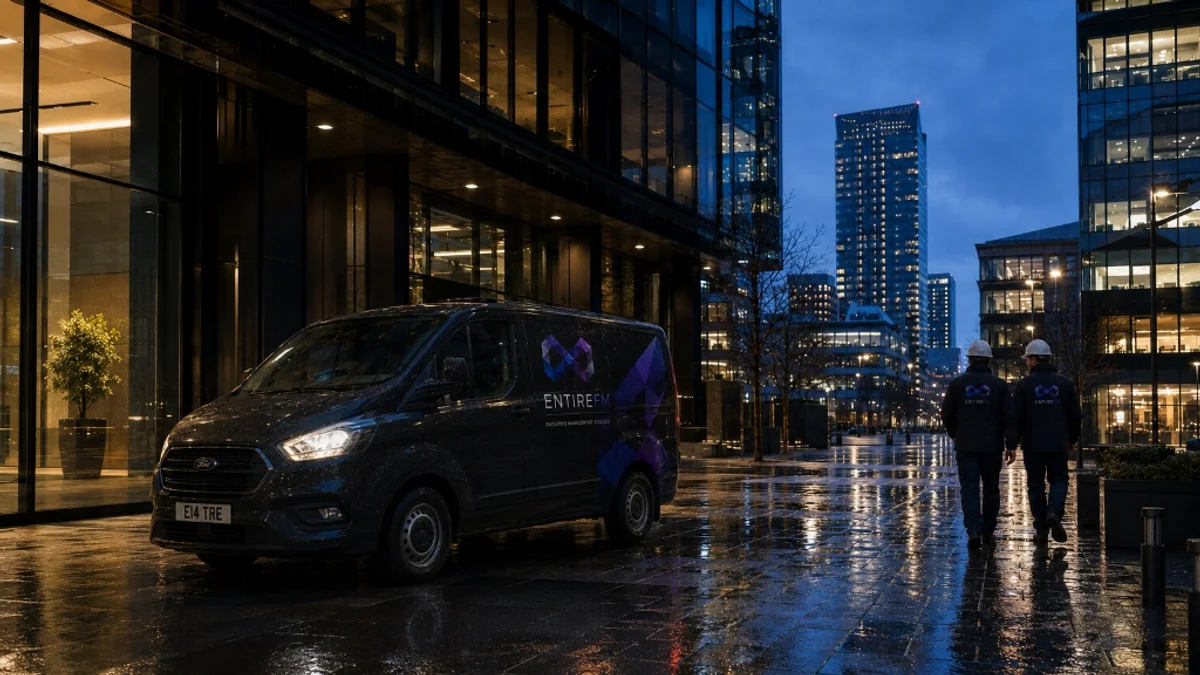
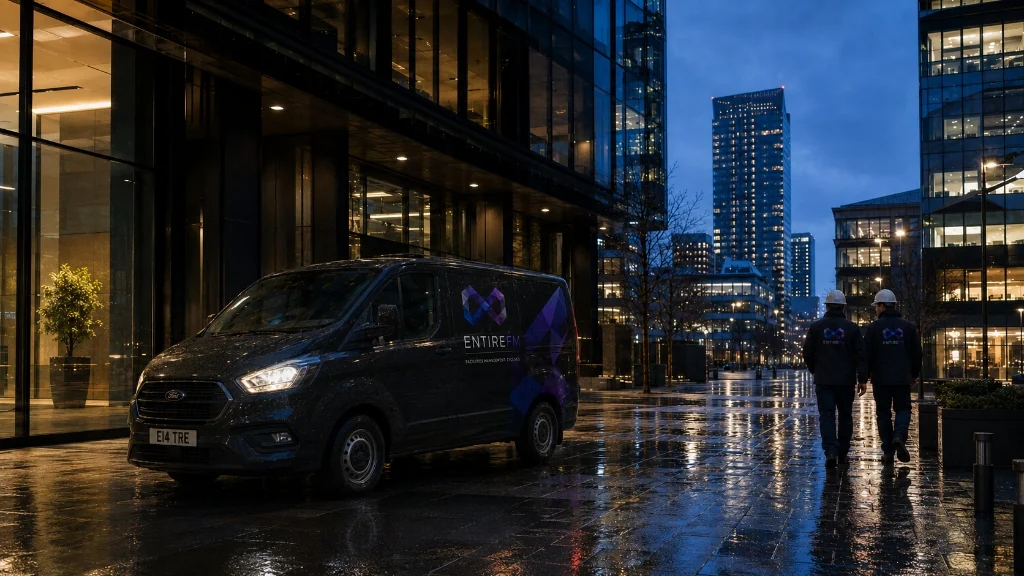
feat(media): update Manchester hero image and refine contact hero overlay contrast

diff --git a/src/server/ceo-command/intent.ts b/src/server/ceo-command/intent.ts
@@ -153,13 +153,13 @@ interface IntentPattern {
 }
 
 const INTENT_PATTERNS: IntentPattern[] = [
-  { category: 'FINANCE', keywords: ['margin', 'revenue', 'profit', 'invoice', 'billing', 'cost', 'financial', 'cash', 'leakage', 'unbilled', 'wip', 'accounts receivable', 'payment', 'supplier invoice', 'gross margin', 'actual cost', 'matched cost', 'attribution', 'profitability'] },
+  { category: 'FINANCE', keywords: ['margin', 'revenue', 'profit', 'invoice', 'billing', 'financial', 'cash', 'leakage', 'unbilled', 'wip', 'accounts receivable', 'payment', 'supplier invoice', 'gross margin', 'actual cost', 'matched cost', 'attribution', 'profitability', 'finance cost', 'supplier cost', 'invoice cost'] },
   { category: 'COMPLIANCE', keywords: ['compliance', 'obligation', 'certificate', 'statutory', 'sfg20', 'audit', 'exception', 'regulation', 'legislation', 'standard', 'expiring', 'expired', 'overdue compliance', 'audit ready', 'audit readiness', 'mobilisation gap'] },
   { category: 'PPM', keywords: ['ppm', 'planned maintenance', 'maintenance due', 'scheduled maintenance', 'overdue maintenance', 'occurrence', 'maintenance plan', 'next 30 days maintenance', 'preventative'] },
   { category: 'OPERATIONS', keywords: ['work order', 'sla', 'backlog', 'helpdesk', 'service request', 'attendance', 'resolution', 'breach', 'dispatch', 'first time fix', 'recall rate', 'response time', 'completion rate', 'unassigned', 'open work', 'operational exception'] },
   { category: 'SUPPLY_CHAIN', keywords: ['provider', 'contractor', 'supplier performance', 'acceptance', 'decline', 'subcontractor', 'supply chain', 'trade', 'cost variance supplier', 'evidence quality', 'attendance sla', 'provider performance'] },
   { category: 'CLIENTS', keywords: ['client', 'account', 'customer', 'portfolio', 'profitability', 'least profitable', 'most profitable', 'client profitability', 'client account'] },
-  { category: 'ASSETS', keywords: ['asset', 'equipment', 'boiler', 'chiller', 'ahu', 'repeat failure', 'defect', 'callout', 'reactive asset', 'most costly asset', 'costly asset', 'replace', 'replacement', 'lifecycle', 'fail next', 'predictive', 'data quality', 'ageing asset', 'expected life', 'condition'] },
+  { category: 'ASSETS', keywords: ['asset', 'equipment', 'boiler', 'chiller', 'ahu', 'repeat failure', 'defect', 'callout', 'reactive asset', 'most costly asset', 'costly asset', 'replace', 'replacement', 'lifecycle', 'fail next', 'predictive', 'data quality', 'ageing asset', 'expected life', 'condition', 'maintenance cost', 'asset cost', 'reactive cost', 'most expensive asset', 'assets cost', 'cost us the most', 'costing the most'] },
   { category: 'ESTATE', keywords: ['site', 'building', 'floor', 'space', 'estate', 'property', 'managed site', 'facilities'] },
   { category: 'AI_AUTOMATION', keywords: ['ai', 'automation', 'automated', 'workflow', 'dispatch ai', 'ai activity', 'control plane', 'escalation', 'override', 'shadow mode'] },
   { category: 'PLATFORM_HEALTH', keywords: ['integration', 'connector', 'xero', 'quickbooks', 'sage', 'netsuite', 'platform health', 'system health', 'healthy'] },

diff --git a/src/templates/TemplateContact.tsx b/src/templates/TemplateContact.tsx
@@ -138,23 +138,23 @@ export function TemplateContact() {
             />
           </div>
 
-          {/* Dark Overlay with subtle illumination */}
+          {/* Dark Overlay with balanced illumination allowing background visibility */}
           <div
             aria-hidden="true"
             className="absolute inset-0 -z-10"
             style={{
               background:
-                'linear-gradient(96deg, rgba(11,18,32,0.95) 0%, rgba(11,18,32,0.85) 45%, rgba(11,18,32,0.60) 78%, rgba(11,18,32,0.40) 100%)',
+                'linear-gradient(96deg, rgba(11,18,32,0.85) 0%, rgba(11,18,32,0.70) 45%, rgba(11,18,32,0.45) 78%, rgba(11,18,32,0.25) 100%)',
             }}
           />
           <div
             aria-hidden="true"
-            className="absolute inset-x-0 bottom-0 -z-10 h-36"
-            style={{ background: 'linear-gradient(to top, rgba(11,18,32,1), transparent)' }}
+            className="absolute inset-x-0 bottom-0 -z-10 h-28"
+            style={{ background: 'linear-gradient(to top, rgba(11,18,32,0.85), transparent)' }}
           />
           <div
             aria-hidden="true"
-            className="facet-rule pointer-events-none absolute inset-0 -z-10 opacity-30"
+            className="facet-rule pointer-events-none absolute inset-0 -z-10 opacity-20"
           />
 
           {/* Breadcrumbs offset by header height */}

diff --git a/scripts/test-asset-lifecycle.ts b/scripts/test-asset-lifecycle.ts
@@ -15,6 +15,10 @@
 import {
   computeRepairToReplacementRatio,
   getAssetClassPerformance,
+  computeAssetAge,
+  computeExpectedLifeProfile,
+  computeWarrantyStatus,
+  computeEstimateFreshness,
 } from '../src/server/asset-intelligence';
 import type { AssetReplacementReview, ReplacementReviewStatus } from '../src/server/asset-intelligence/types';
 import { canAccessAsset } from '../src/server/identity';
